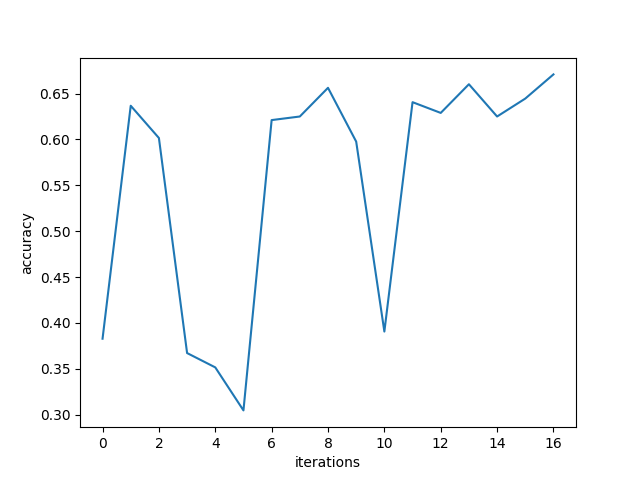
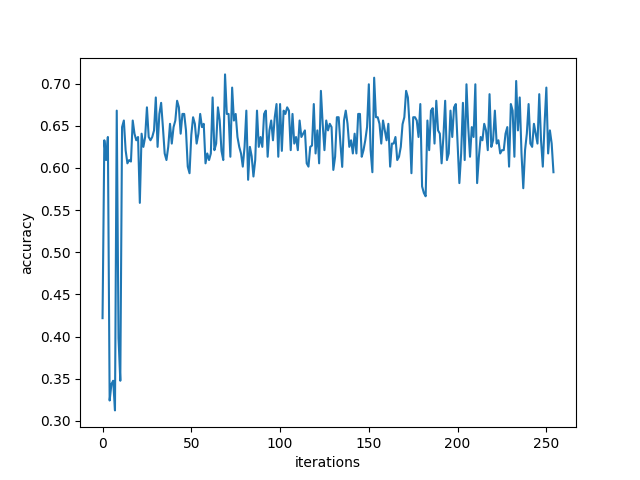
plots for smile

diff --git a/template/smile_model.py b/template/smile_model.py
@@ -214,7 +214,7 @@ model.train()
 loss_fn = nn.CrossEntropyLoss().type(dtype)
 optimizer = optim.Adam(model.parameters(), lr=5e-2,weight_decay=0)
 print("start training")
-loss_history,acc_history,val_acc_history=train(train_loader,val_loader, model, loss_fn, optimizer, dtype,num_epochs=1, print_every=4)
+loss_history,acc_history,val_acc_history=train(train_loader,val_loader, model, loss_fn, optimizer, dtype,num_epochs=15, print_every=4)
 
 plt.plot(range(len(loss_history)),loss_history)
 plt.xlabel("iterations")
